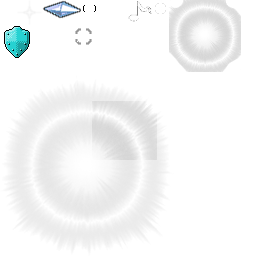
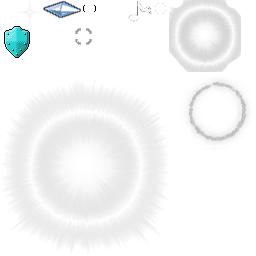
improved animations for some spells and looser constraints on particle rendering in unexplored / not currently visible tiles

Changed region(s): [[0.7188, 0.3125, 0.9688, 0.5625], [0.9062, 0.3438, 0.9375, 0.375]]

diff --git a/core/scripts/spells/absorbEnergy.js b/core/scripts/spells/absorbEnergy.js
@@ -48,14 +48,13 @@ function onTargetSelect(game, targeter, type) {
 		effect.getBonuses().addBonus("SpellResistance", 15 + casterLevel);
 	}
 	
-	var g1 = game.getBaseParticleGenerator("sparkle");
+	var g1 = game.getBaseParticleGenerator("rotatingRing");
 	g1.setDurationInfinite();
-	g1.setRotationSpeedDistribution(game.getUniformDistribution(100.0, 200.0));
 	g1.setPosition(target.getPosition());
 	
 	if (type == "Fire") {
 		g1.setBlueDistribution(game.getFixedDistribution(0.0));
-		g1.setGreenDistribution(game.getFixedDistribution(0.0));
+		g1.setGreenDistribution(game.getFixedDistribution(0.6));
 	} else if (type == "Cold") {
 		// default white color is fine
 	} else if (type == "Electrical") {

diff --git a/core/scripts/particleEffects/rotatingRing.js b/core/scripts/particleEffects/rotatingRing.js
@@ -1,0 +1,17 @@
+/*
+ * A solid ring rotating around a position
+ * You need to set the position and duration
+ */
+
+var g1 = game.createParticleGenerator("Point", "Continuous", "particles/ring72", 8.0);
+g1.setDrawParticlesInOpaque(true);
+g1.setStopParticlesAtOpaque(false);
+g1.setDurationDistribution(game.getFixedDistribution(1.0));
+var color = game.getFixedDistribution(1.0);
+g1.setRedDistribution(color);
+g1.setGreenDistribution(color);
+g1.setBlueDistribution(color);
+g1.setAlphaDistribution(game.getFixedDistribution(0.2));
+g1.setRotationSpeedDistribution(game.getUniformDistribution(100.0, 200.0));
+
+g1;

diff --git a/core/scripts/particleEffects/halo.js b/core/scripts/particleEffects/halo.js
@@ -3,8 +3,10 @@
  * You need to set the position and duration
  */
 
-var g1 = game.createParticleGenerator("Point", "Continuous", "particles/halo", 1.0);
-g1.setDurationDistribution(game.getFixedDistribution(1.0));
+var g1 = game.createParticleGenerator("Point", "Continuous", "particles/halo", 0.5);
+g1.setDrawParticlesInOpaque(true);
+g1.setStopParticlesAtOpaque(false);
+g1.setDurationDistribution(game.getFixedDistribution(2.0));
 var color = game.getFixedDistribution(1.0);
 g1.setRedDistribution(color);
 g1.setGreenDistribution(color);

diff --git a/src/net/sf/hale/particle/Particle.java b/src/net/sf/hale/particle/Particle.java
@@ -89,13 +89,13 @@ public class Particle extends AnimationBase {
 			
 			GL11.glRotatef(getRotation(), 0.0f, 0.0f, 1.0f);
 			
-			if (area.isVisible(pos1) && area.isVisible(pos2) && area.isVisible(pos3) && area.isVisible(pos4)) {
+			if (area.isVisible(pos1) || area.isVisible(pos2) || area.isVisible(pos3) || area.isVisible(pos4)) {
 				sprite.drawNoTextureBind(-getHalfWidth(), -getHalfHeight());
 			}
 			
 			GL11.glPopMatrix();
 		} else {
-			if (area.isVisible(pos1) && area.isVisible(pos2) && area.isVisible(pos3) && area.isVisible(pos4)) {
+			if (area.isVisible(pos1) || area.isVisible(pos2) || area.isVisible(pos3) || area.isVisible(pos4)) {
 				sprite.drawNoTextureBind((int)getX() - getHalfWidth(), (int)getY() - getHalfHeight());
 			}
 		}

diff --git a/src/net/sf/hale/ability/AbilitySlot.java b/src/net/sf/hale/ability/AbilitySlot.java
@@ -517,6 +517,7 @@ public class AbilitySlot implements Saveable {
 	public void cancelAllAuras() {
 		int size = activeEffects.size();
 		
+		boolean auraFound = false;
 		for (int i = 0; i < size; i++) {
 			Effect effect = activeEffects.get(i);
 			
@@ -527,6 +528,12 @@ public class AbilitySlot implements Saveable {
 			
 			i--;
 			size--;
+			auraFound = true;
+		}
+		
+		if (auraFound && abilityID != null) {
+			if (getAbility().isCancelable())
+				deactivate();
 		}
 	}
 	
